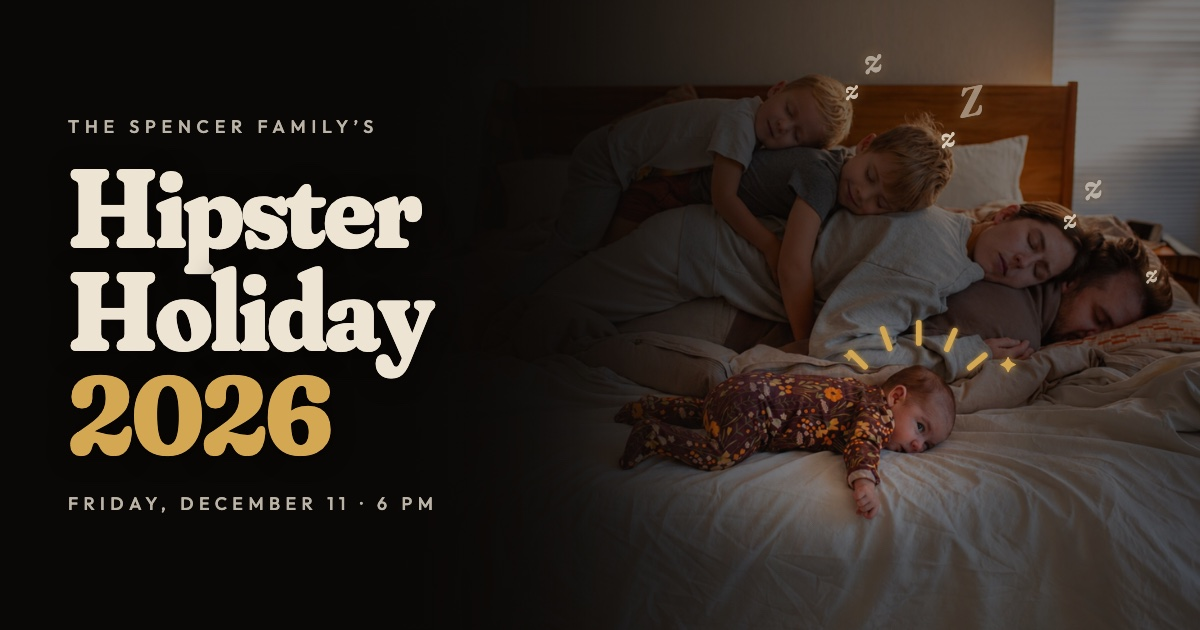
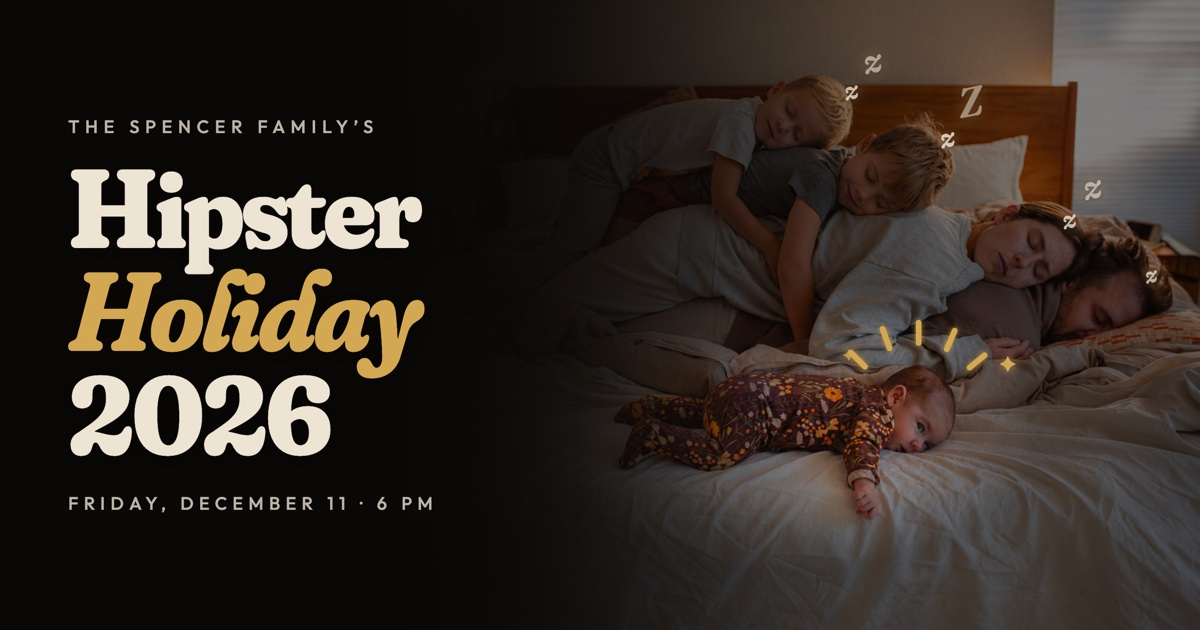
feat: one gold accent and one title treatment across the site

diff --git a/CLAUDE.md b/CLAUDE.md
@@ -20,19 +20,19 @@ Astro + React, static output, GitHub Pages. No Tailwind — scoped CSS in Astro 
 ## Design
 
 - Fonts: Cormorant Garamond (display) + Outfit (body)
-- Colors: `#0a0806` bg, `#bf3a2b` accent red, `#d4a853` gold, `#ede4d4` text
+- Colors: `#0a0806` bg, `#ede4d4` text, and one accent across the whole site, set in `Base.astro` (`--gold`, `#d4a853` for 2026, to match the photo's warm light). Images on cream (the light poster) use a deeper gold, `#a9782a`, so it stays readable
 - Warm radial glow for atmosphere (no film grain — it was removed)
 - Countdown targets the 2nd Friday of December at 6 PM MST dynamically
-- The invite page's hero is themed to the year (`Hero2026.astro`: dark bedroom, nightlight tour then pointer/touch control, reveal on the baby; under Reduce Motion the light fades between stops) and embeds `CountdownTimer`; `Countdown.astro` is the home page's hero, set in the invite's Fraunces: "Hipster" over italic "Holiday {year}" on its own line, with only the year in the accent, and the boxed countdown with Fraunces numbers; home's section headings use Fraunces too
+- The invite page's hero is themed to the year (`Hero2026.astro`: dark bedroom, nightlight tour then pointer/touch control, reveal on the baby; under Reduce Motion the light fades between stops) and embeds `CountdownTimer`; `Countdown.astro` is the home page's hero, set in the invite's Fraunces: "Hipster" over "*Holiday* {year}" on its own line, and the boxed countdown with Fraunces numbers; home's section headings use Fraunces too
 - Home's link preview is `public/og-home.jpg`; the invite page passes its own
-- 2026 hero is a "poster": verse + punchline together on top, the room in the middle, title + countdown along the bottom with "View the invite" and "Add to calendar" buttons; gold is reserved for the punchline, the year, and the baby
+- 2026 hero is a "poster": verse + punchline together on top, the room in the middle, title + countdown along the bottom with "View the invite" and "Add to calendar" buttons
 - Theme font for 2026 is Fraunces (`--font-theme`); home features the current year's invite in its own "This Year" section (`ThisYear.astro`), and the archive below holds past years only
-- One accent per page: home runs on red (`<Base accent="red">` swaps the gold tokens), themed invite pages keep their own (gold for 2026)
+- One title treatment everywhere (home, the invite, the nav logo, the poster and link previews): "Hipster" upright in cream, *Holiday* italic in the accent, the year upright in cream
 - Gallery is centered on the page with a floating timeline nav on the right that only shows while the archive is in view
 - Year labels sit to the left of each card, pulled out of flow to keep cards centered
 - Never publish the home address: the site says "At the Spencer home" and guests get the address another way
 - RSVPs post (no-cors) to a Google Apps Script web app; with no `RSVP_ENDPOINT` set the form says RSVPs aren't open yet
-- Every page (home, the invite page, 2025) shares one `TopNav` of fixed landmarks: brand → home ("Hipster *Holiday*" with Holiday in the site red italic on every page; "HH" on the smallest phones), "This Year ’YY" (just "YYYY" on phones) → the invite page, a divider, Archive → `/#archive`, RSVP → the invite page's form; an accent underline marks the current place. Labels come from `event.ts`, so the nav needs no props
+- Every page (home, the invite page, 2025) shares one `TopNav` of fixed landmarks: brand → home ("Hipster *Holiday*" with Holiday in the accent italic; "HH" on the smallest phones), "This Year ’YY" (just "YYYY" on phones) → the invite page, a divider, Archive → `/#archive`, RSVP → the invite page's form; an accent underline marks the current place. Labels come from `event.ts`, so the nav needs no props
 
 ## Yearly Workflow
 
